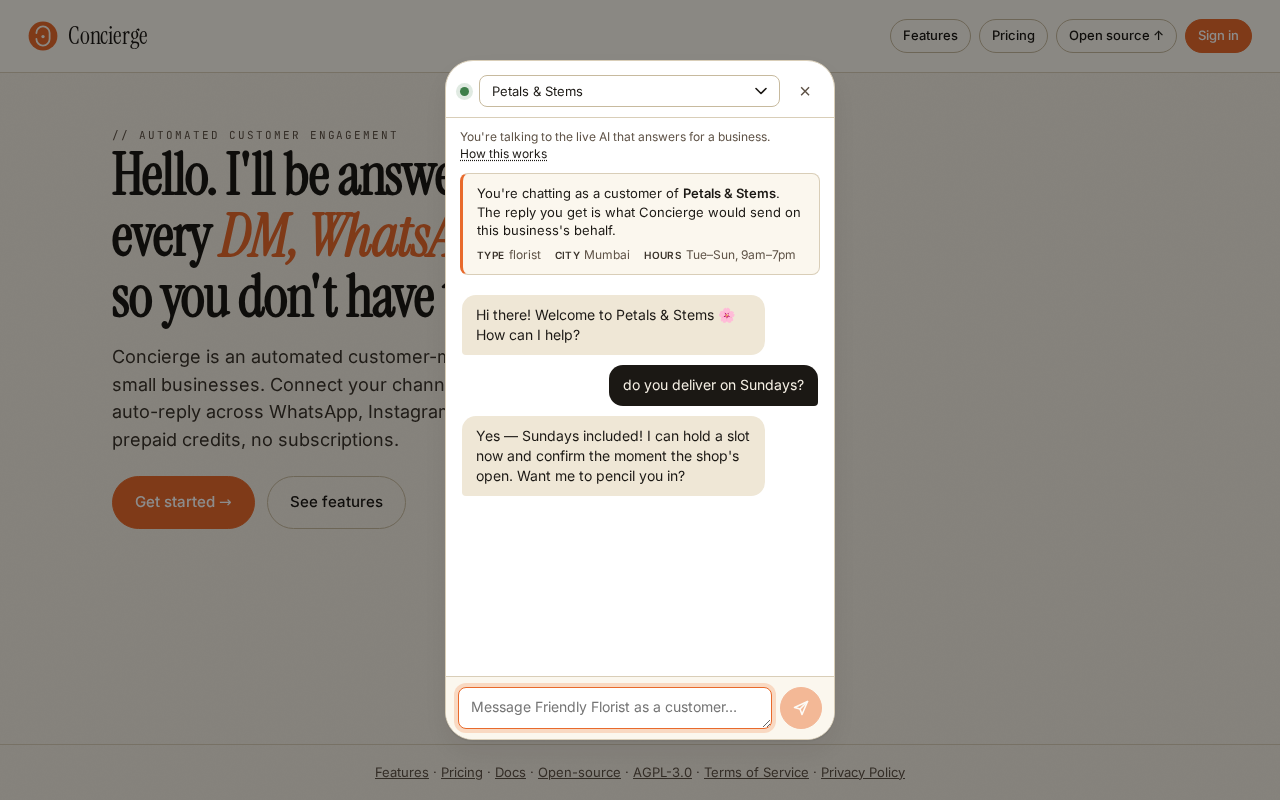
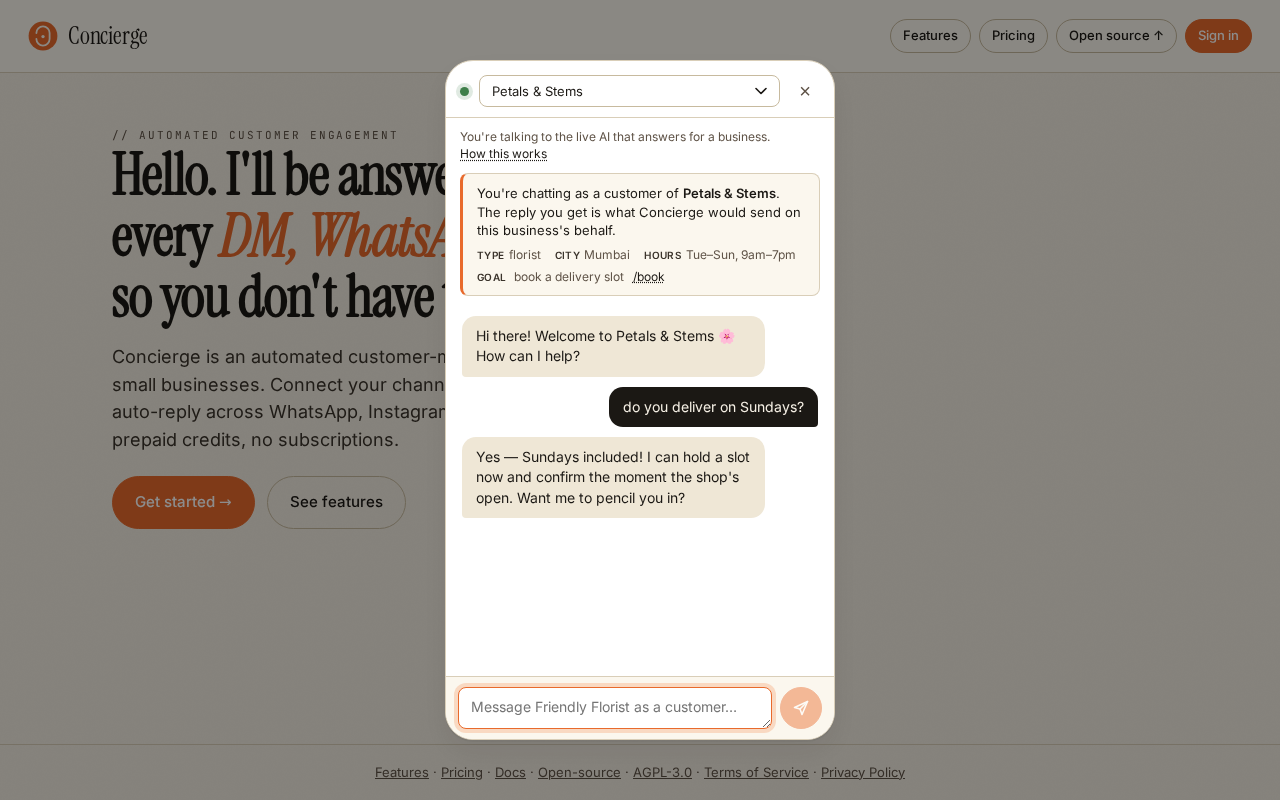
demo: restore the goal row in the in-phone business card
The redesign's compact in-phone card dropped the persona's goal row,
which the "demo-chat shows business goal row in card" e2e asserts on
(.chat-business-card must contain the goal). The goal is also the most
useful roleplay hook — it gives the visitor something concrete to ask —
so put it back, matching the reference modal's card. Regen demo shots.

Changed region(s): [[0.3438, 0.3438, 0.6562, 0.6562]]

diff --git a/src/templates/onboarding.rs b/src/templates/onboarding.rs
@@ -322,6 +322,13 @@ pub fn welcome_html(
             <span x-show="currentPersona.business && currentPersona.business.business_type"><b>{chat_lbl_type}</b><span x-text="currentPersona.business && currentPersona.business.business_type"></span></span>
             <span x-show="currentPersona.business && currentPersona.business.city"><b>{chat_lbl_city}</b><span x-text="currentPersona.business && currentPersona.business.city"></span></span>
             <span x-show="currentPersona.business && currentPersona.business.hours"><b>{chat_lbl_hours}</b><span x-text="currentPersona.business && currentPersona.business.hours"></span></span>
+            <span class="biz-goal" x-show="currentPersona.business && currentPersona.business.goal">
+              <b>{chat_lbl_goal}</b>
+              <span x-text="currentPersona.business && currentPersona.business.goal"></span>
+              <template x-if="currentPersona.business && currentPersona.business.goal_url">
+                <a class="biz-goal-link" :href="currentPersona.business.goal_url" x-text="currentPersona.business.goal_url" target="_blank" rel="noopener"></a>
+              </template>
+            </span>
           </p>
         </div>
         <div class="chat-scroll phone-scroll" x-ref="msgs">
